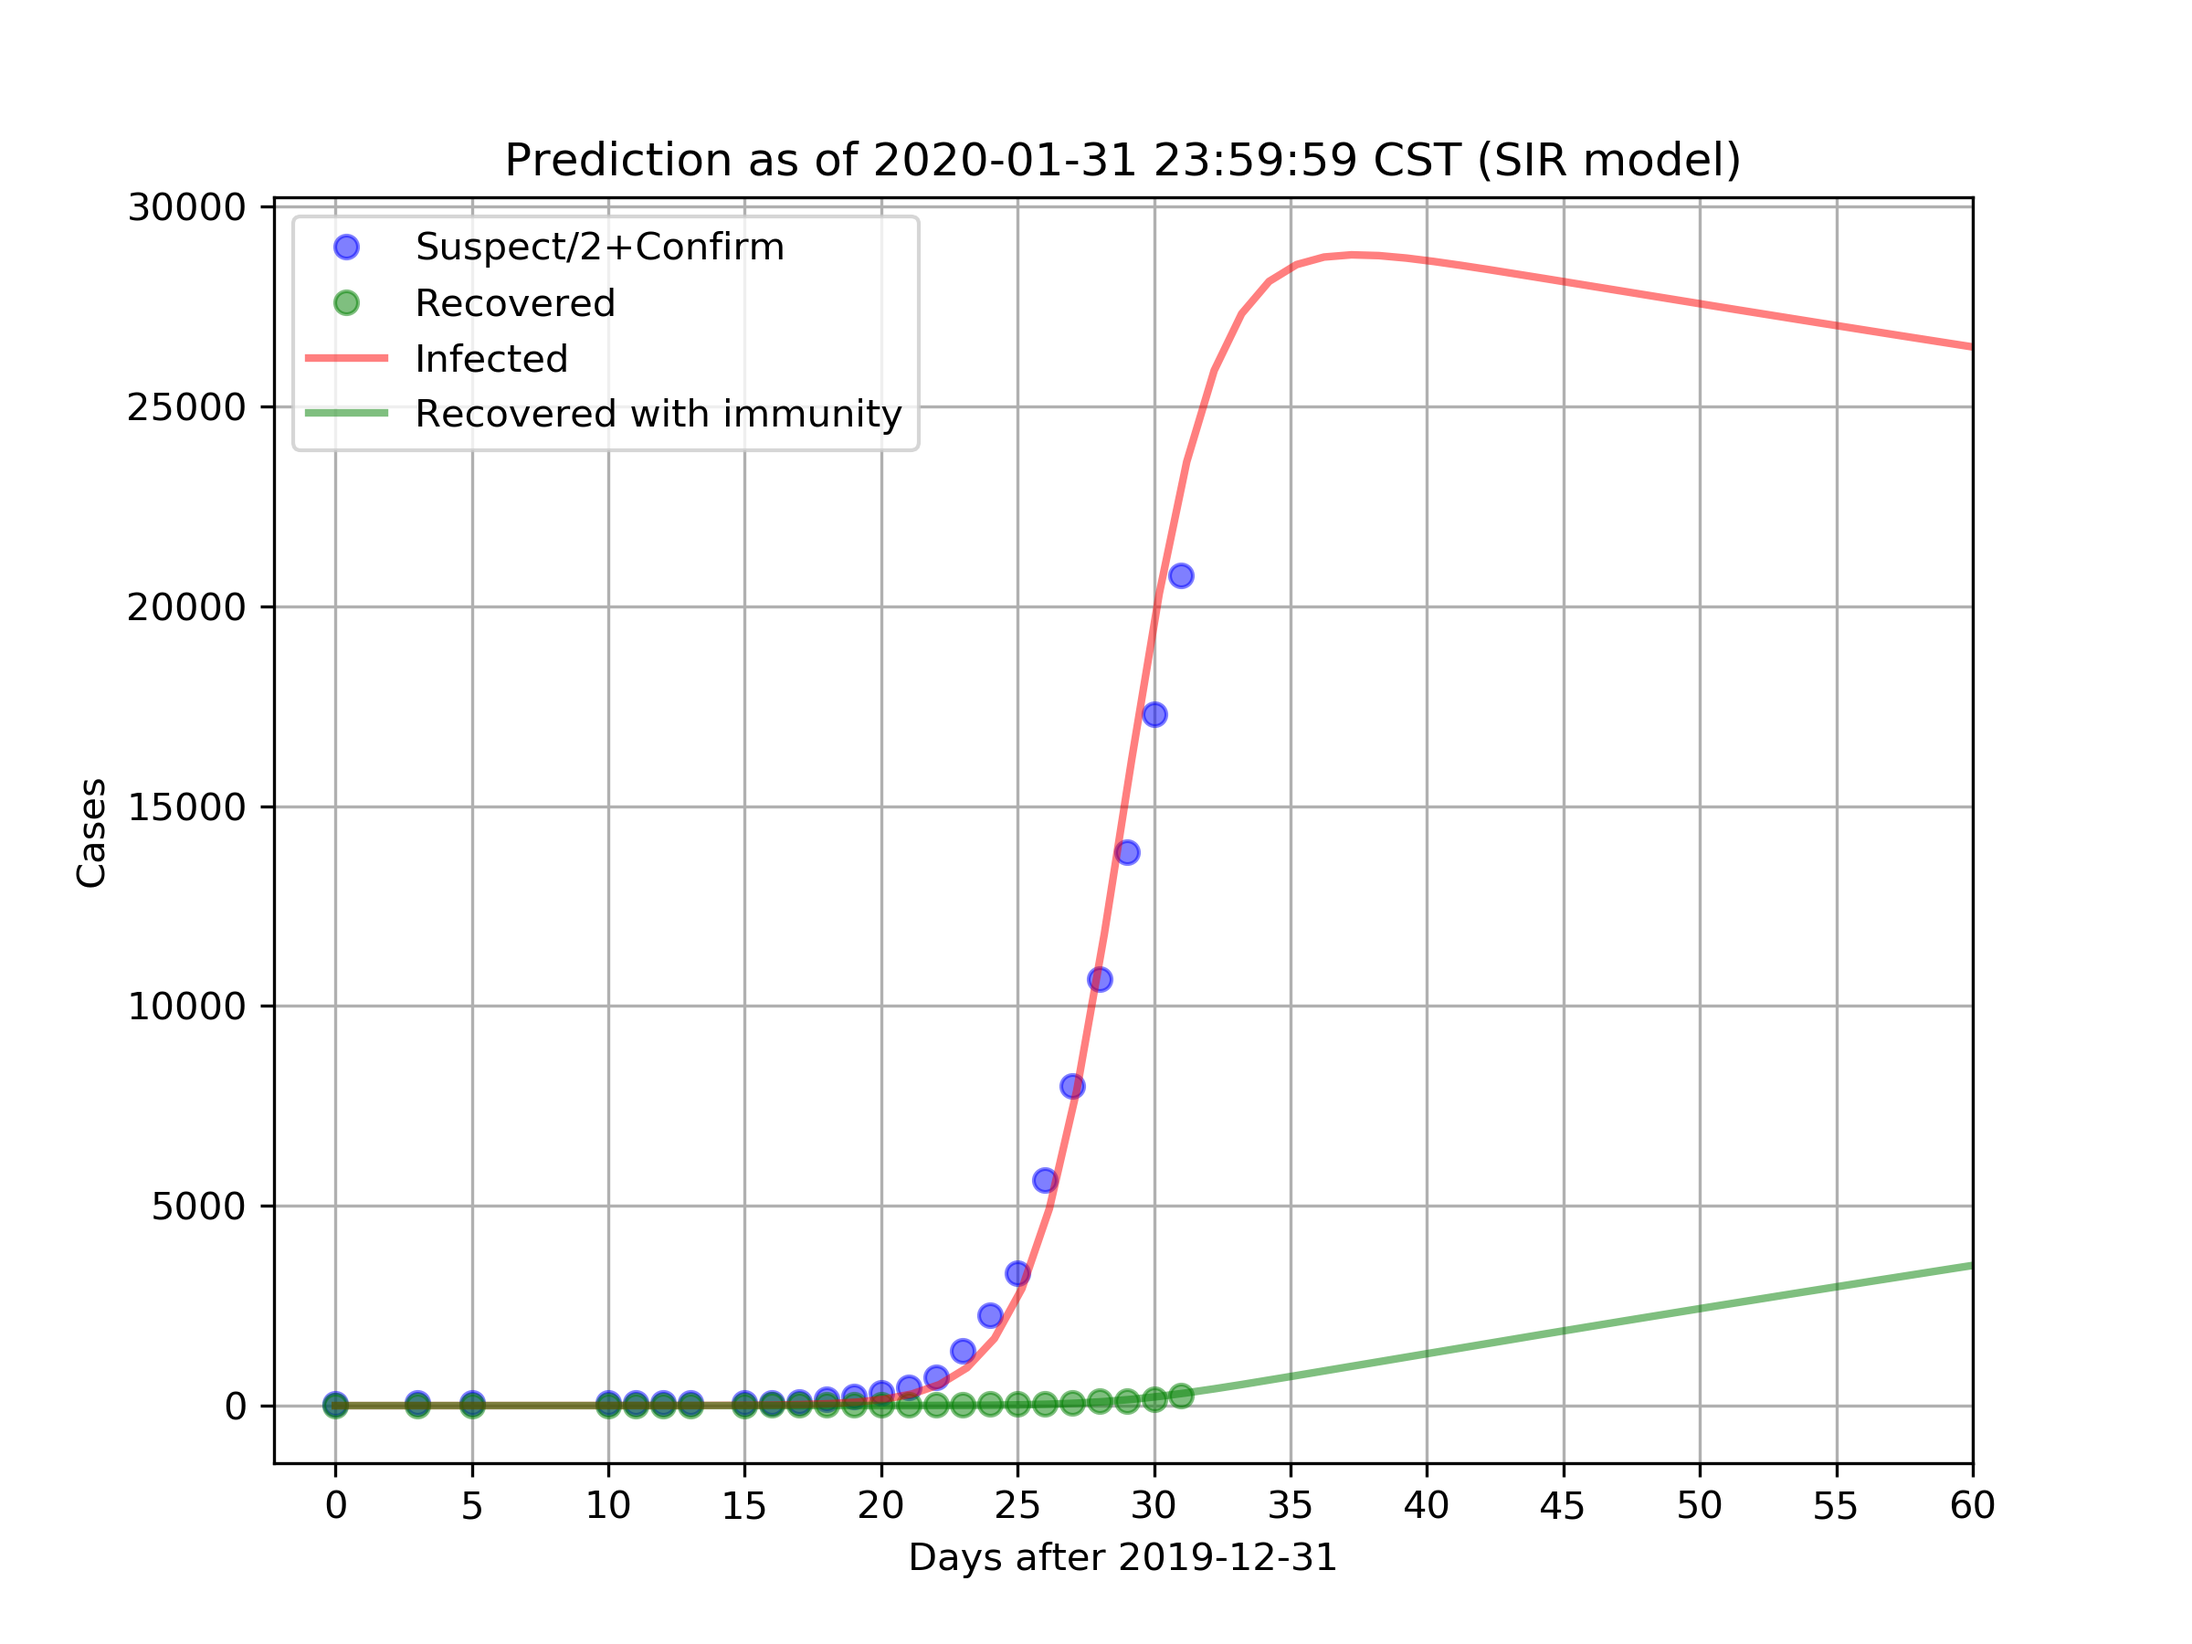
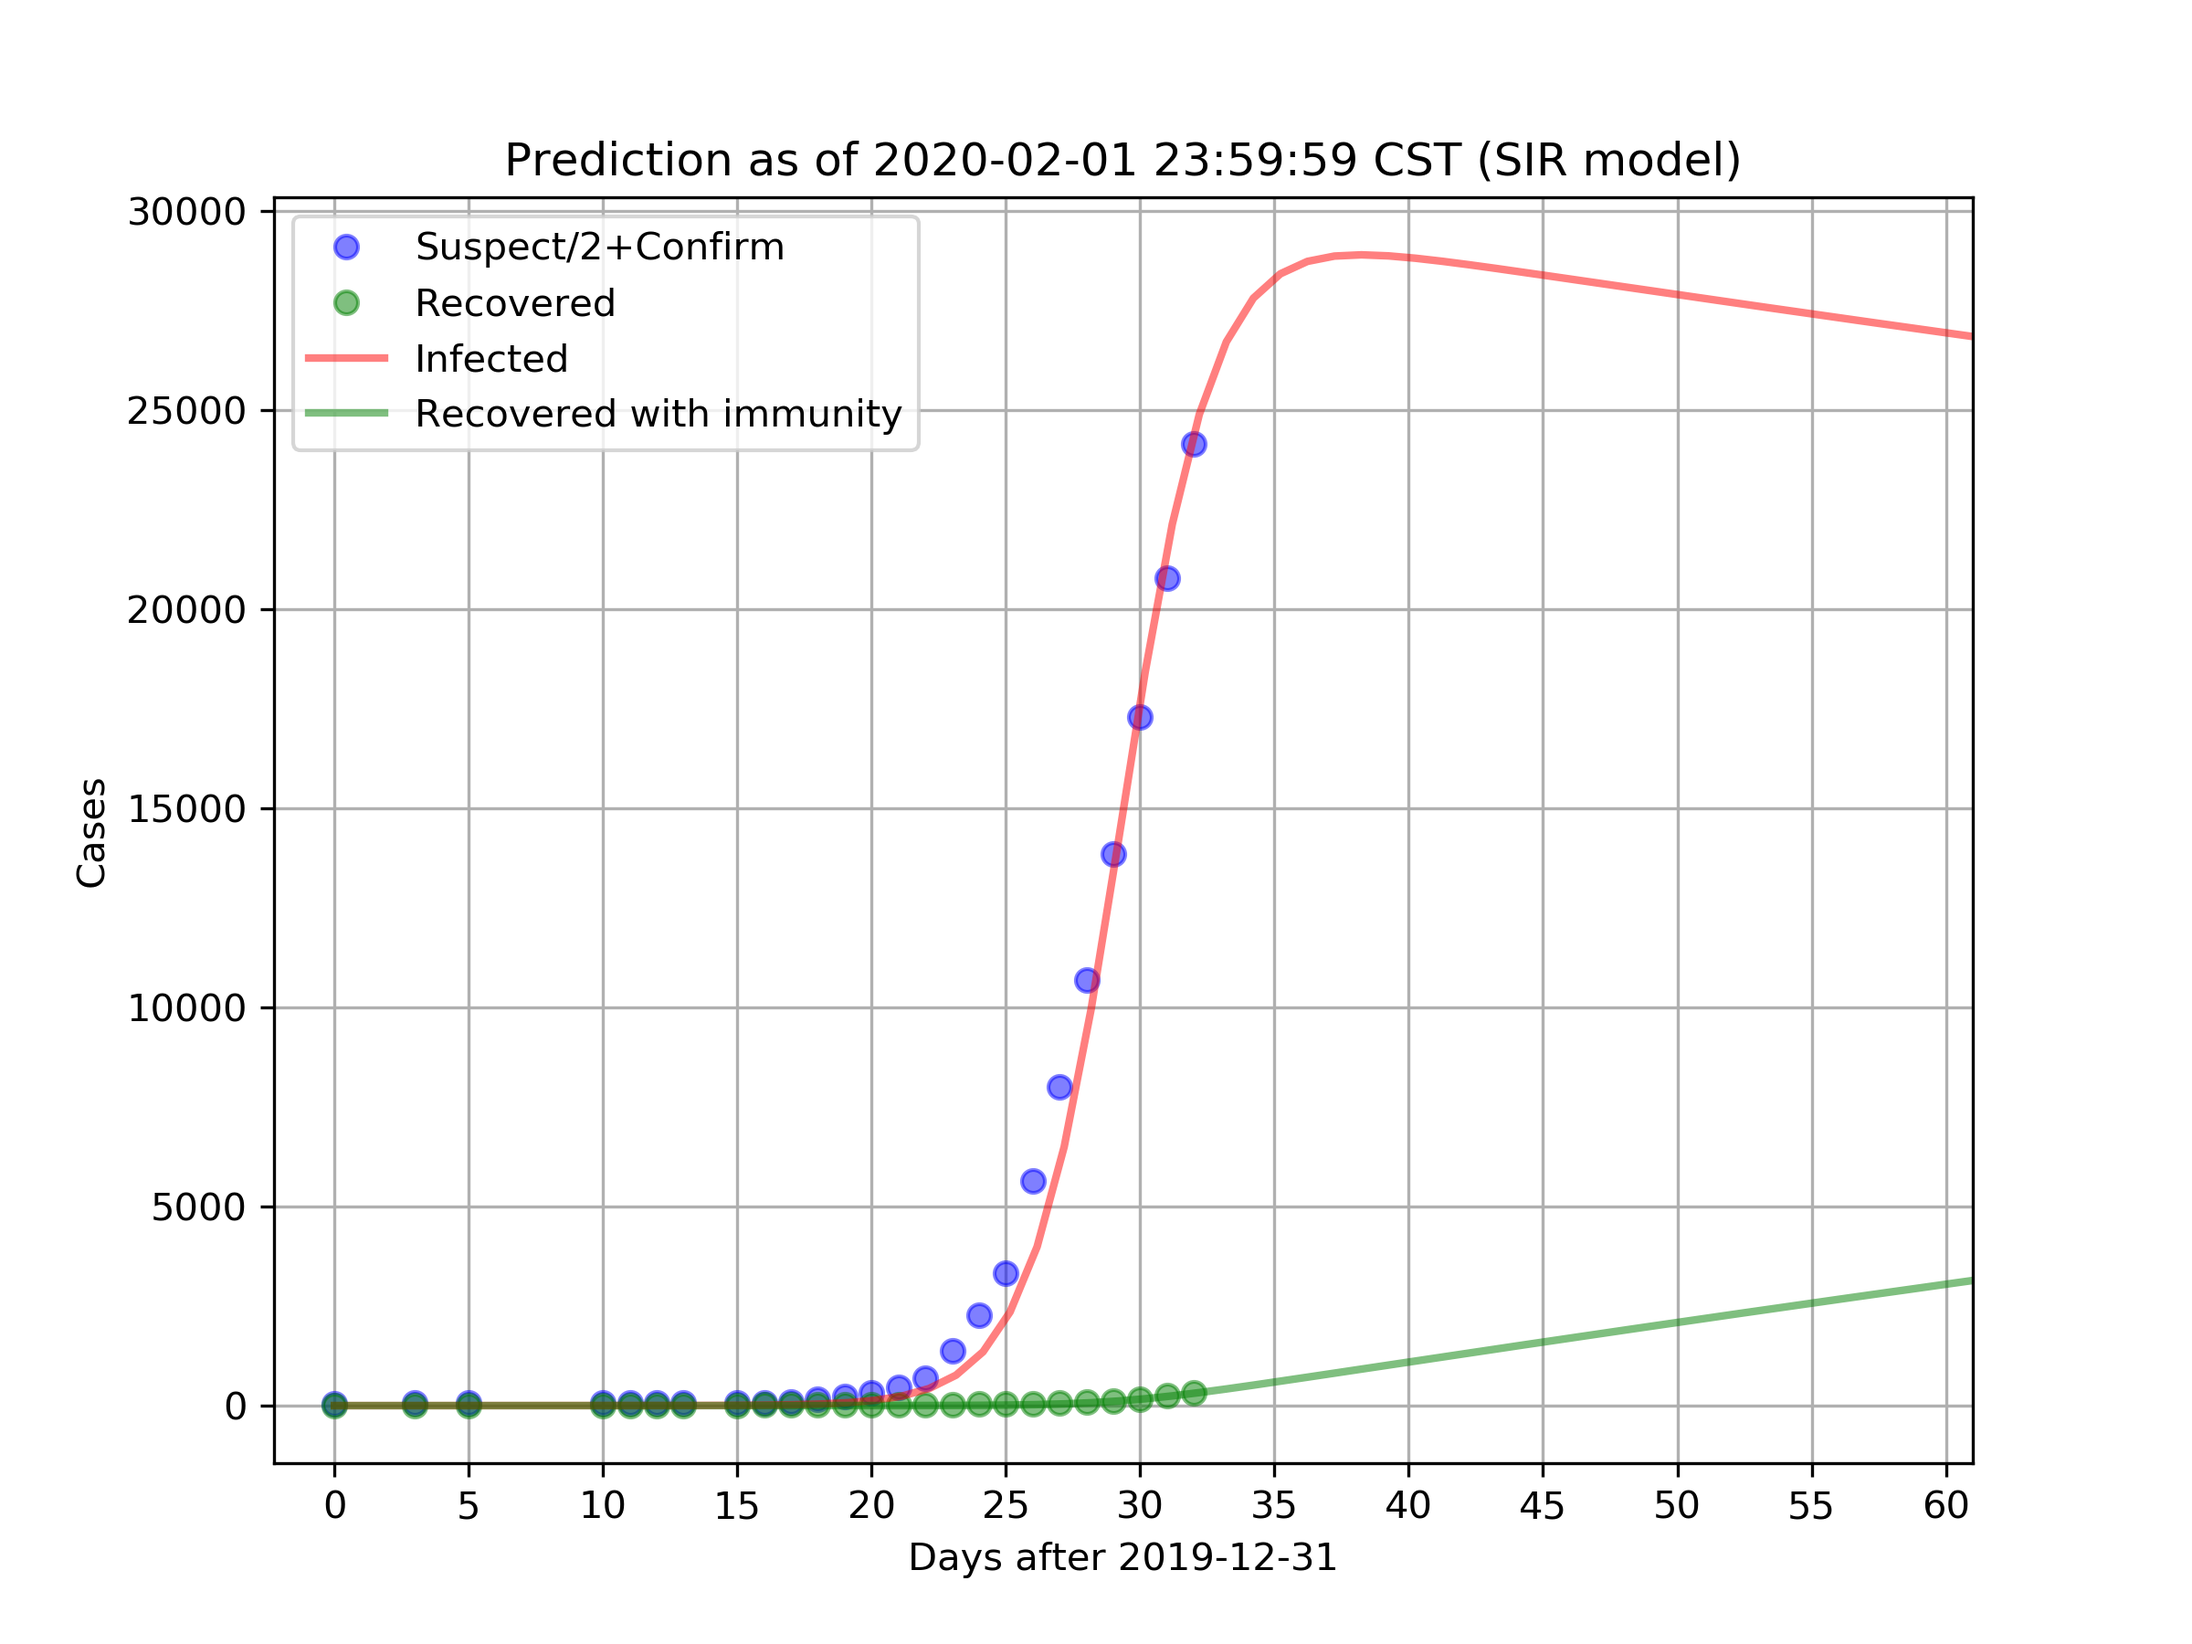
update 2020-02-01

diff --git a/2019_nCoV_SIR.py b/2019_nCoV_SIR.py
@@ -8,10 +8,10 @@ from datetime import datetime, timedelta
 info_frame = pd.read_csv('data/2019-nCoV.csv')
 info_frame.fillna(method='ffill', inplace=True)
 info_frame.fillna(method='bfill', inplace=True)
-init_date = datetime.strptime(info_frame['Date CST'][0], '%Y.%m.%d')
-today_date = datetime.strptime(info_frame['Date CST'].iloc[-1], '%Y.%m.%d')
+init_date = datetime.strptime(info_frame['Date CST'][0], '%Y-%m-%d')
+today_date = datetime.strptime(info_frame['Date CST'].iloc[-1], '%Y-%m-%d')
 today_days = (today_date - init_date).days
-info_frame['Date CST'] = info_frame['Date CST'].apply(lambda x: (datetime.strptime(x, '%Y.%m.%d') - init_date).days)
+info_frame['Date CST'] = info_frame['Date CST'].apply(lambda x: (datetime.strptime(x, '%Y-%m-%d') - init_date).days)
 X = info_frame['Date CST'].to_numpy()
 X = np.array(X, dtype=np.float32)
 X = X.reshape(-1, 1)
@@ -26,7 +26,7 @@ I0, R0 = 1, 0
 # Everyone else, S0, is susceptible to infection initially.
 S0 = N - I0 - R0
 # Contact rate, beta, and mean recovery rate, gamma, (in 1/days).
-beta, gamma = 0.6, 4e-3
+beta, gamma = 0.59, 3.5e-3
 # A grid of time points (in days)
 t = np.linspace(0, 160, 160)
 

diff --git a/2019_nCoV.py b/2019_nCoV.py
@@ -8,10 +8,10 @@ import matplotlib.pyplot as plt
 info_frame = pd.read_csv('data/2019-nCoV.csv')
 info_frame.fillna(method='ffill', inplace=True)
 info_frame.fillna(method='bfill', inplace=True)
-init_date = datetime.strptime(info_frame['Date CST'][0], '%Y.%m.%d')
-today_date = datetime.strptime(info_frame['Date CST'].iloc[-1], '%Y.%m.%d')
+init_date = datetime.strptime(info_frame['Date CST'][0], '%Y-%m-%d')
+today_date = datetime.strptime(info_frame['Date CST'].iloc[-1], '%Y-%m-%d')
 today_days = (today_date - init_date).days
-info_frame['Date CST'] = info_frame['Date CST'].apply(lambda x: (datetime.strptime(x, '%Y.%m.%d') - init_date).days)
+info_frame['Date CST'] = info_frame['Date CST'].apply(lambda x: (datetime.strptime(x, '%Y-%m-%d') - init_date).days)
 X = info_frame['Date CST'].to_numpy()
 X = np.array(X, dtype=np.float32)
 X = X.reshape(-1, 1)
@@ -41,7 +41,7 @@ class SigmoidRegression(torch.nn.Module):
         return (torch.sigmoid((x - ones * self.x0) * self.k) * self.a + ones * self.b).squeeze()
 
 
-learningRate = 0.003
+learningRate = 0.001
 epochs = 1000000
 
 
